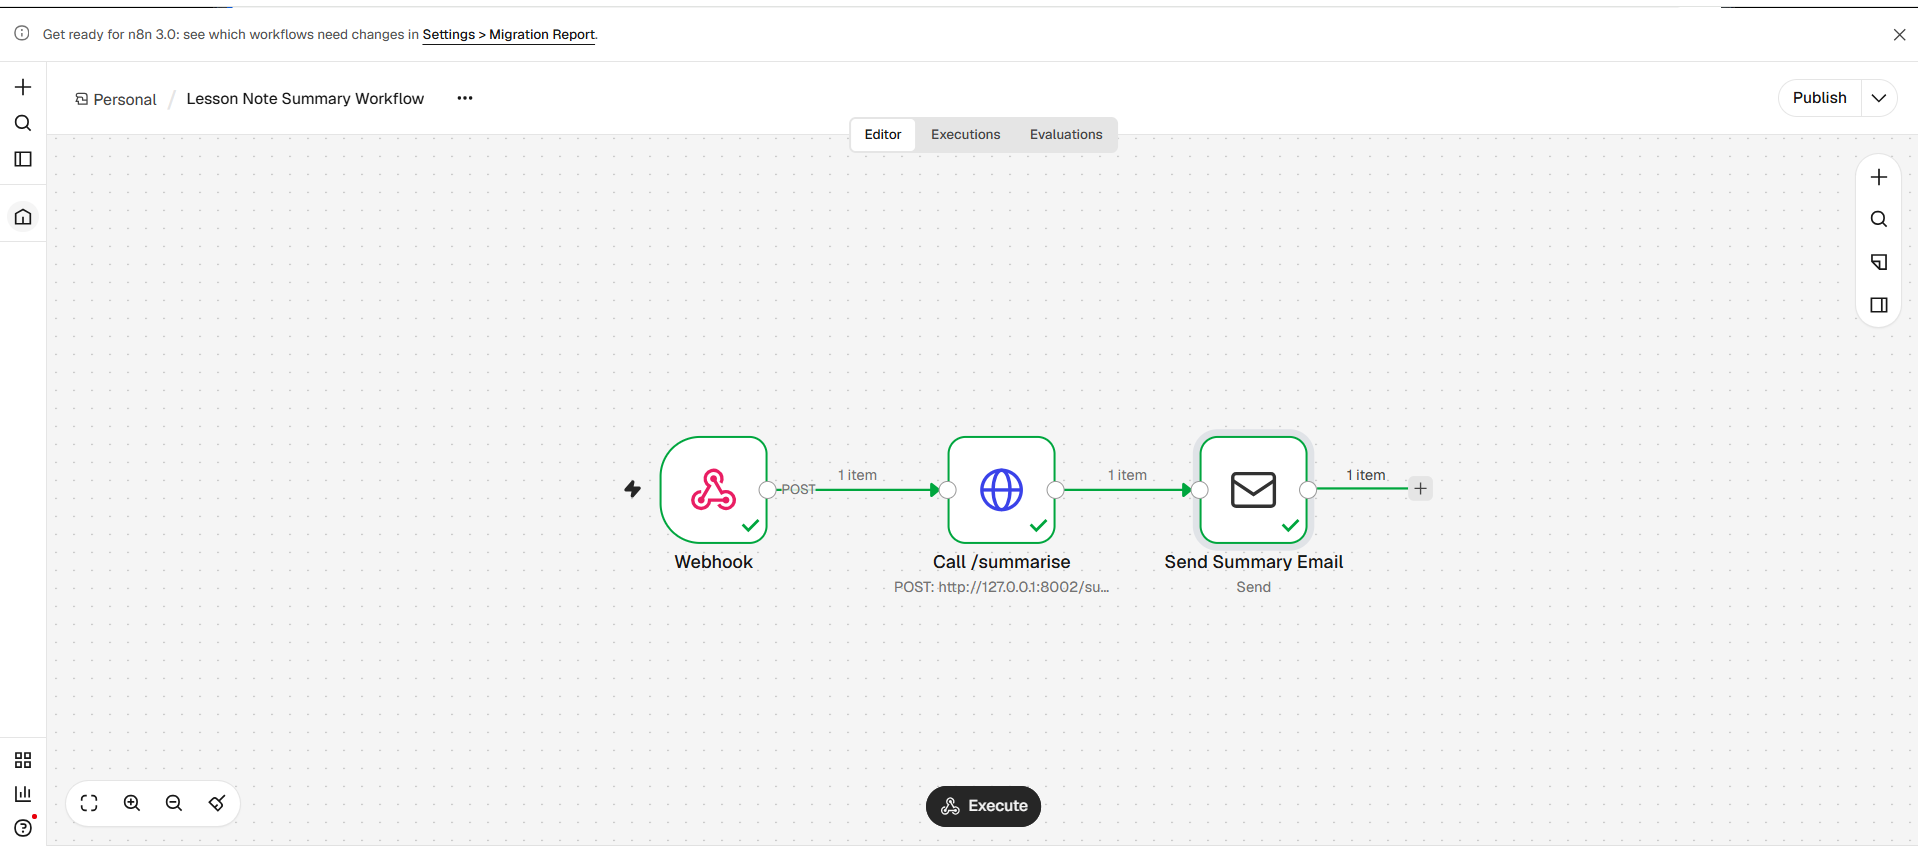
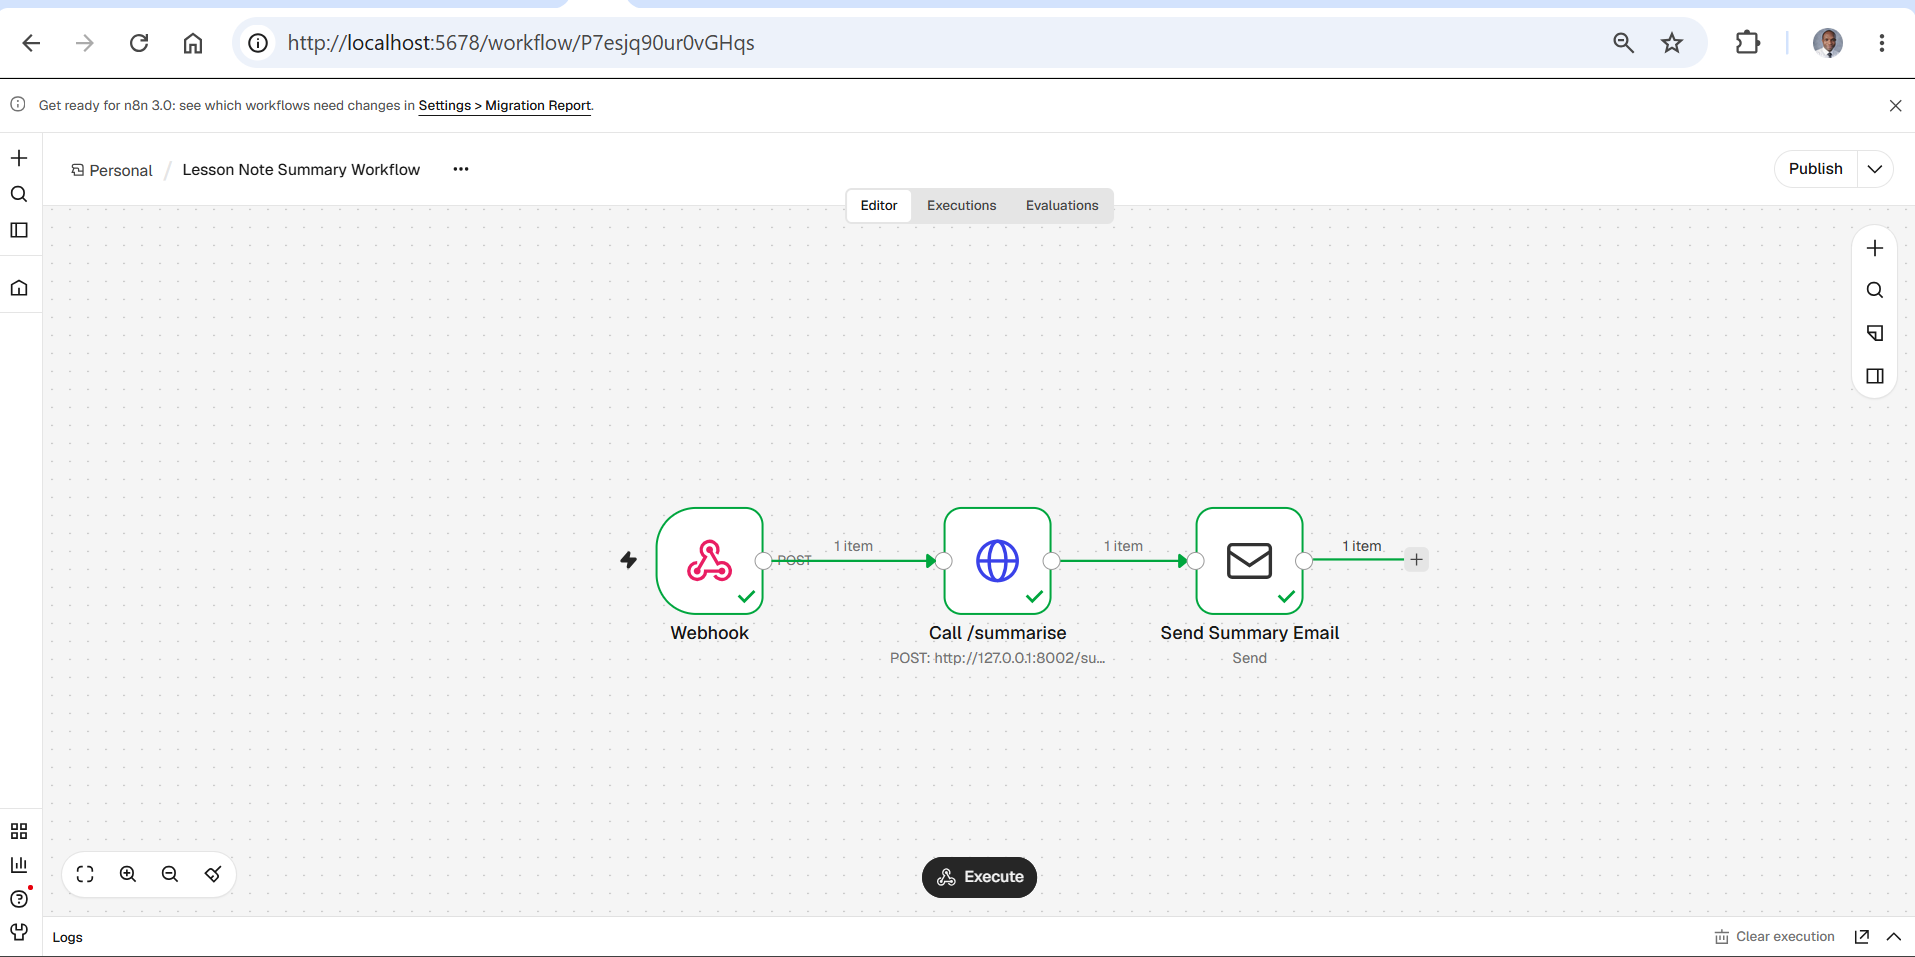
Update report and canvas screenshot for model change

diff --git a/docs/automation-workflow-report.md b/docs/automation-workflow-report.md
@@ -2,7 +2,7 @@
 
 **Author:** Faith Amanze
 **Date:** 13 November 2026
-**Stack:** n8n (webhook, HTTP Request, Send Email/SMTP), FastAPI backend, Groq (`llama-3.3-70b-versatile`)
+**Stack:** n8n (webhook, HTTP Request, Send Email/SMTP), FastAPI backend, Groq (`openai/gpt-oss-120b`; the first real-AI runs used `llama-3.3-70b-versatile`)
 
 ## 1. Workflow Diagram
 
@@ -75,6 +75,14 @@ HTTP 200
 ```
 
 ## 5. Security Rule
+**Evidence: backend re-test with `openai/gpt-oss-120b`** (after switching the model; same script, new event ID):
+
+```
+Test A (happy path, evt-222614): HTTP 200, five-bullet summary returned
+Test B (empty lesson_note):      HTTP 400 {"detail":"lesson_note is empty"}
+Test C (wrong key):              HTTP 401 {"detail":"Bad or missing API key"}
+Test D (same event_id as A):     HTTP 200, response identical to Test A
+```
 
 `/summarise` requires a secret `x-api-key` header. The backend reads the key from a `.env` file, `.env` is listed in `.gitignore` so it is never pushed to GitHub, and requests without the right key get a 401. The Groq key and the Gmail app password are also kept out of the code (`.env` and an n8n credential respectively). Improvement: move the `x-api-key` value in the n8n HTTP Request node into an n8n Header Auth credential, instead of typing it into the node.
 
@@ -111,7 +119,7 @@ Then, after the IPv6 fix, a connection timeout because port 465 was blocked (err
 
 ## 8. Final Result
 
-Sending one webhook request produced an email titled **Your summary: Photosynthesis** with a Groq-generated summary:
+Sending one webhook request produced an email titled **Your summary: Photosynthesis** with a Groq-generated summary (this email came from `llama-3.3-70b-versatile`; later runs used `openai/gpt-oss-120b`, see section 4):
 
 - Plants make their own food by turning sunlight, water, and carbon dioxide into sugar (glucose) and oxygen.
 - This process happens inside tiny structures called chloroplasts found in plant cells.
